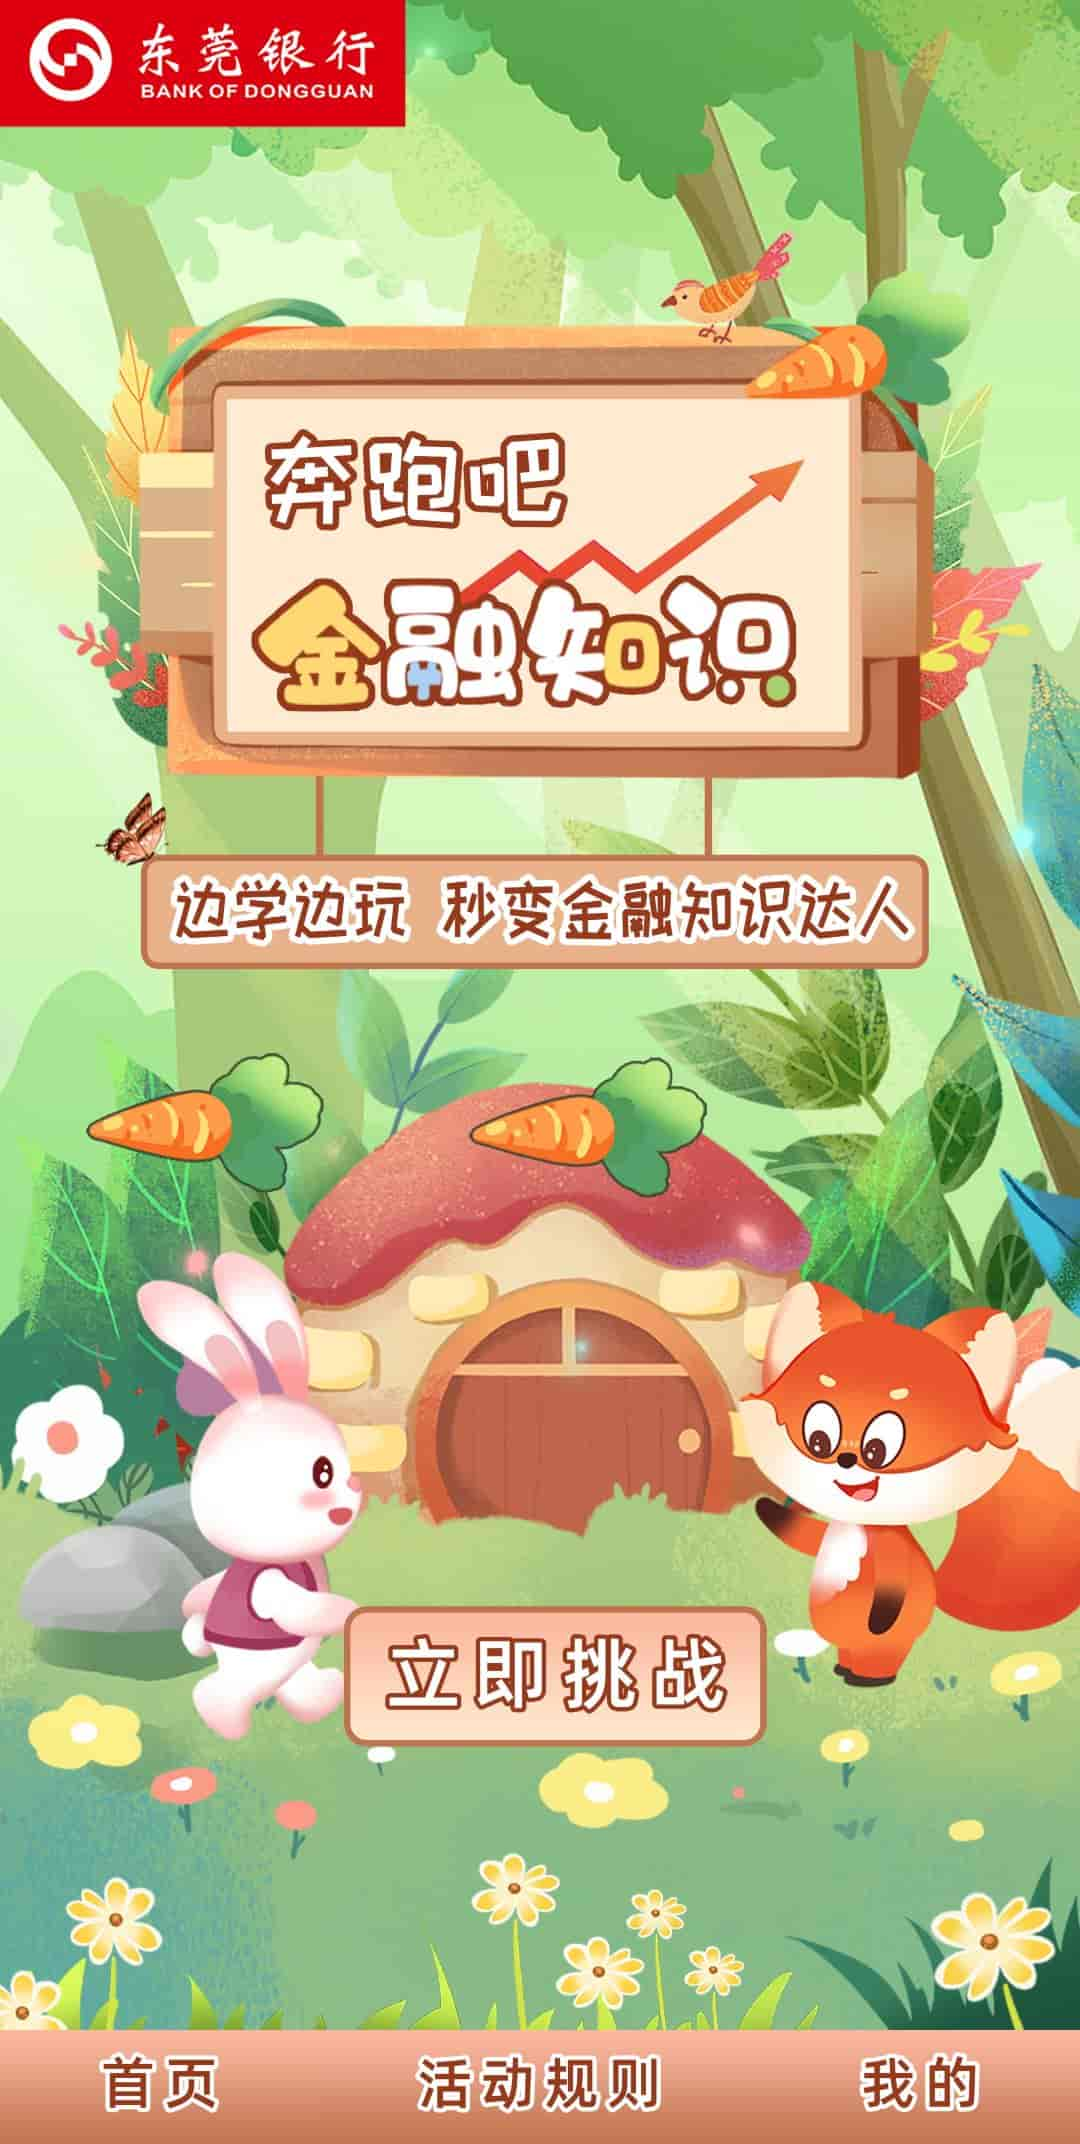
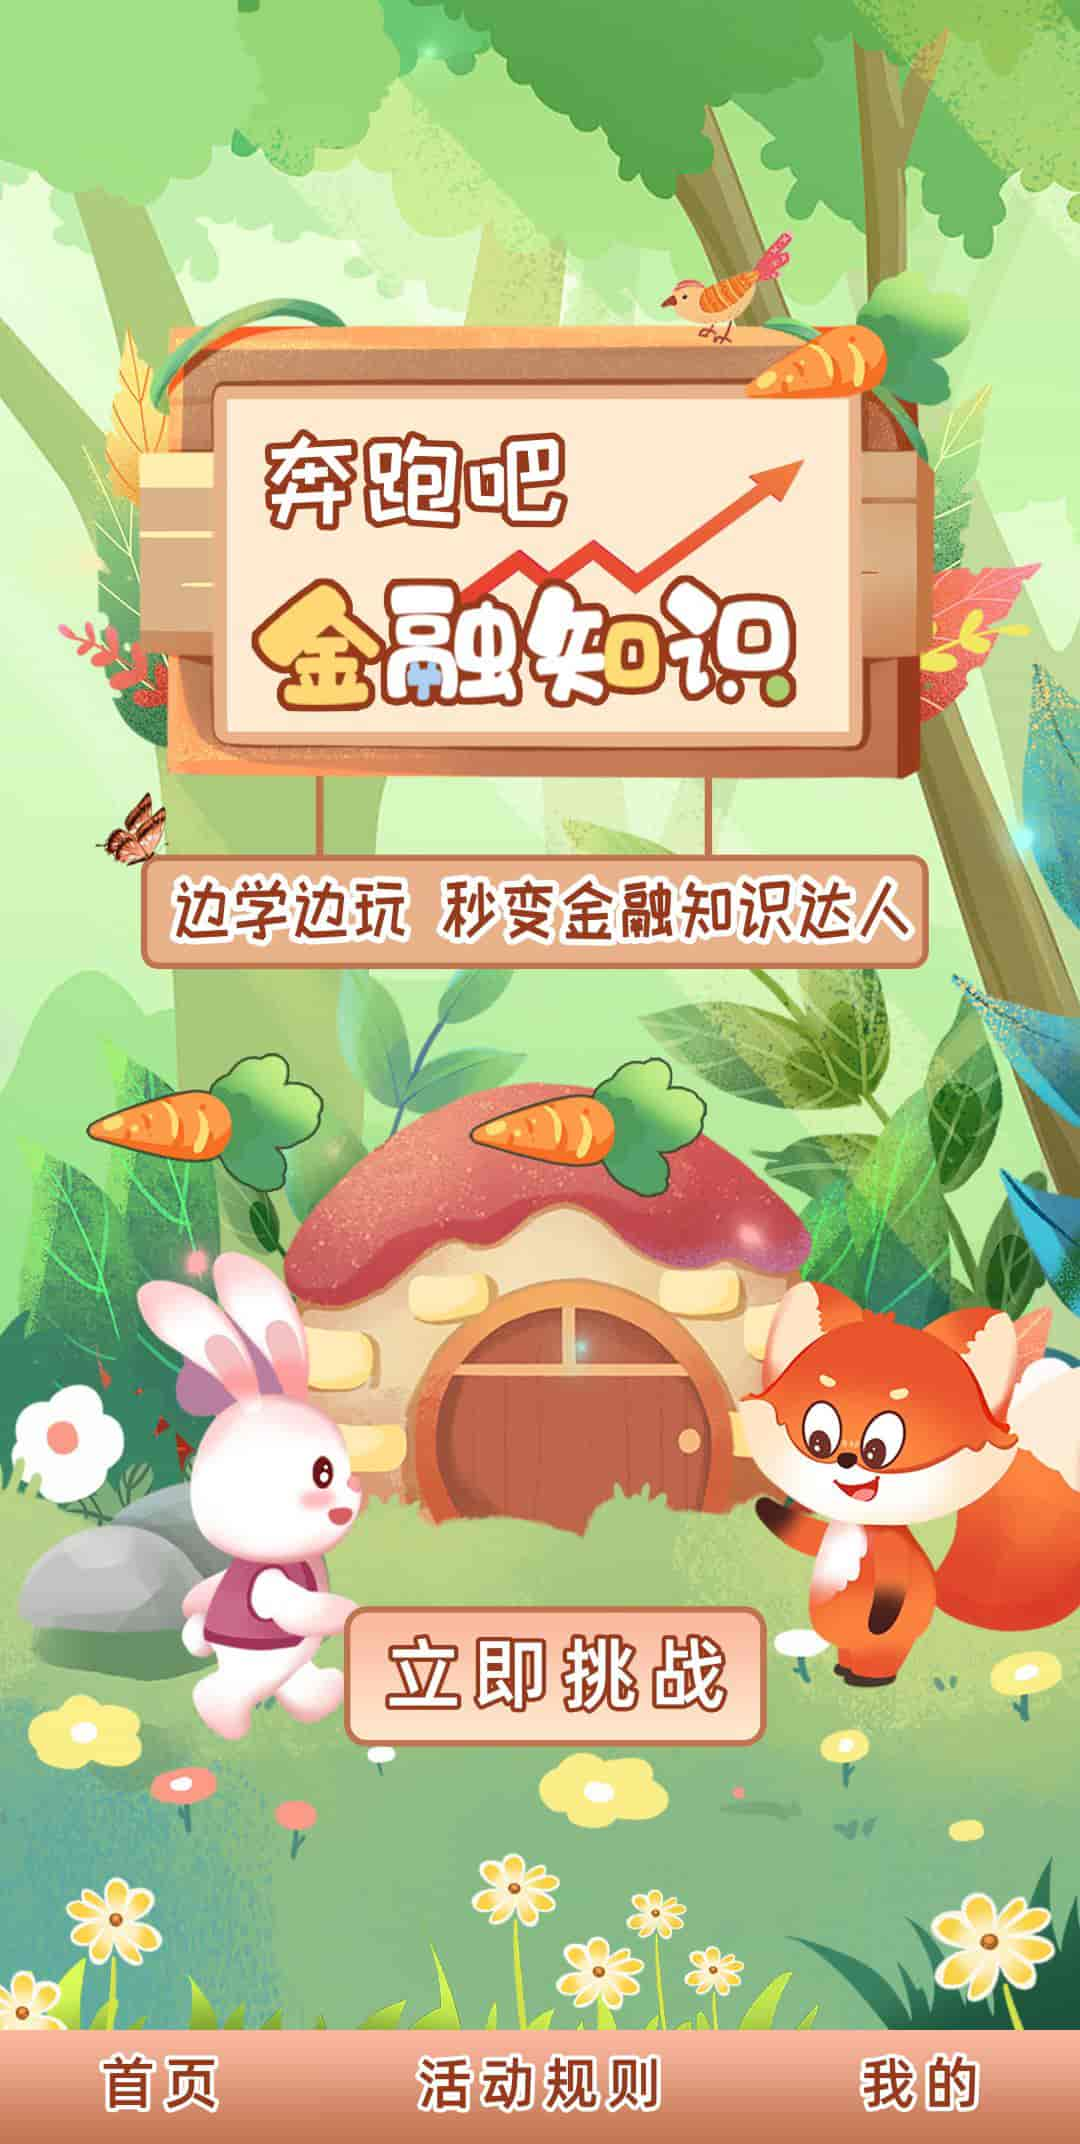
修改首页背景，增加logo，优化启动页模板

Changed region(s): [[0.0, 0.0, 0.3972, 0.0625]]

diff --git a/RabbitGame/build-templates/web-mobile/style-mobile.css b/RabbitGame/build-templates/web-mobile/style-mobile.css
@@ -1,0 +1,135 @@
+html {
+  -ms-touch-action: none;
+}
+
+body,
+canvas,
+div {
+  display: block;
+  outline: none;
+  -webkit-tap-highlight-color: rgba(0, 0, 0, 0);
+
+  user-select: none;
+  -moz-user-select: none;
+  -webkit-user-select: none;
+  -ms-user-select: none;
+  -khtml-user-select: none;
+  -webkit-tap-highlight-color: rgba(0, 0, 0, 0);
+}
+
+/* Remove spin of input type number */
+input::-webkit-outer-spin-button,
+input::-webkit-inner-spin-button {
+  /* display: none; <- Crashes Chrome on hover */
+  -webkit-appearance: none;
+  margin: 0;
+  /* <-- Apparently some margin are still there even though it's hidden */
+}
+
+body {
+  position: absolute;
+  top: 0;
+  left: 0;
+  width: 100%;
+  height: 100%;
+  padding: 0;
+  border: 0;
+  margin: 0;
+
+  cursor: default;
+  color: #888;
+  background-color: #333;
+
+  text-align: center;
+  font-family: Helvetica, Verdana, Arial, sans-serif;
+
+  display: flex;
+  flex-direction: column;
+
+  /* fix bug: https://github.com/cocos-creator/2d-tasks/issues/791 */
+  /* overflow cannot be applied in Cocos2dGameContainer, 
+  otherwise child elements will be hidden when Cocos2dGameContainer rotated 90 deg */
+  overflow: hidden;
+}
+
+#Cocos2dGameContainer {
+  position: absolute;
+  margin: 0;
+  left: 0px;
+  top: 0px;
+
+  display: -webkit-box;
+  -webkit-box-orient: horizontal;
+  -webkit-box-align: center;
+  -webkit-box-pack: center;
+}
+
+canvas {
+  background-color: rgba(0, 0, 0, 0);
+}
+
+a:link,
+a:visited {
+  color: #666;
+}
+
+a:active,
+a:hover {
+  color: #666;
+}
+
+p.header {
+  font-size: small;
+}
+
+p.footer {
+  font-size: x-small;
+}
+
+#splash {
+  position: absolute;
+  top: 0;
+  left: 0;
+  width: 100%;
+  height: 100%;
+  background: #ffffff url(./splash.dcb01.png) no-repeat center;
+  background-size: 45%;
+}
+
+.progress-bar {
+  position: absolute;
+  left: 27.5%;
+  top: 80%;
+  height: 3px;
+  padding: 2px;
+  width: 45%;
+  border-radius: 7px;
+  box-shadow: 0 1px 5px #000 inset, 0 1px 0 #444;
+}
+
+.progress-bar span {
+  display: block;
+  height: 100%;
+  border-radius: 3px;
+  transition: width .4s ease-in-out;
+  background-color: #3dc5de;
+}
+
+.stripes span {
+  background-size: 30px 30px;
+  background-image: linear-gradient(135deg, rgba(255, 255, 255, .15) 25%, transparent 25%,
+      transparent 50%, rgba(255, 255, 255, .15) 50%, rgba(255, 255, 255, .15) 75%,
+      transparent 75%, transparent);
+
+  animation: animate-stripes 1s linear infinite;
+}
+
+@keyframes animate-stripes {
+  0% {
+    background-position: 0 0;
+  }
+
+  100% {
+    background-position: 60px 0;
+  }
+}
